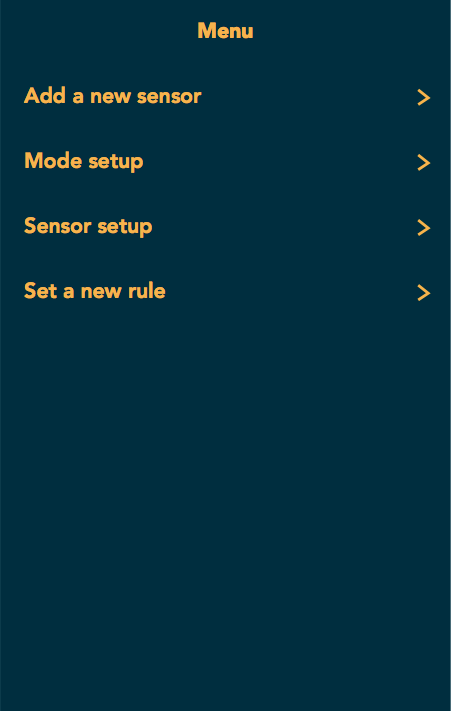
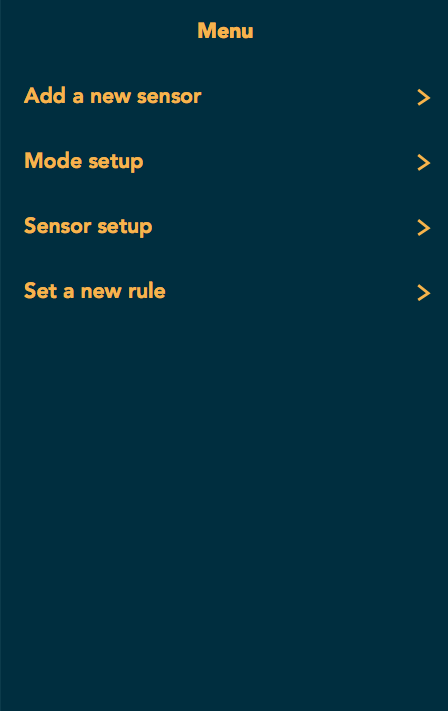
menuview

diff --git a/menuview.html b/menuview.html
@@ -3,7 +3,7 @@
 	<head>
 		<link rel="stylesheet" href="style.css">
 	</head>
-	<body>
-		<img src="icons/back-burger.png">
+	<body id="menuview">
+		<!--<img src="icons/back-burger.png">-->
 	</body>
 </html>

diff --git a/style.css b/style.css
@@ -262,3 +262,9 @@ body a {
 	padding-top: 1em;
 }
 
+/* MENU VIEW*/
+#menuview {
+    background-image: url("icons/back-burger.png");
+    background-color: #002e3f;
+    background-repeat:no-repeat;
+}
